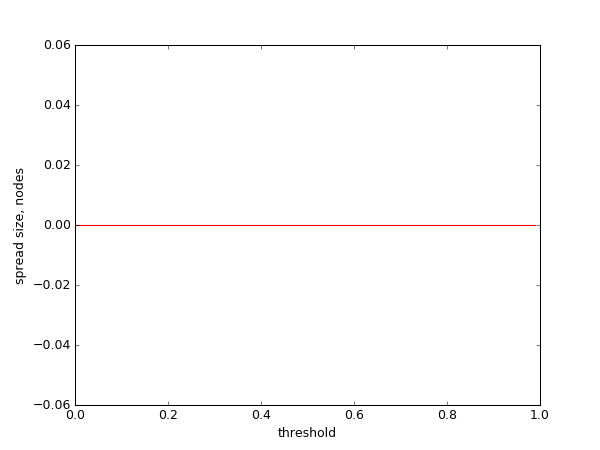
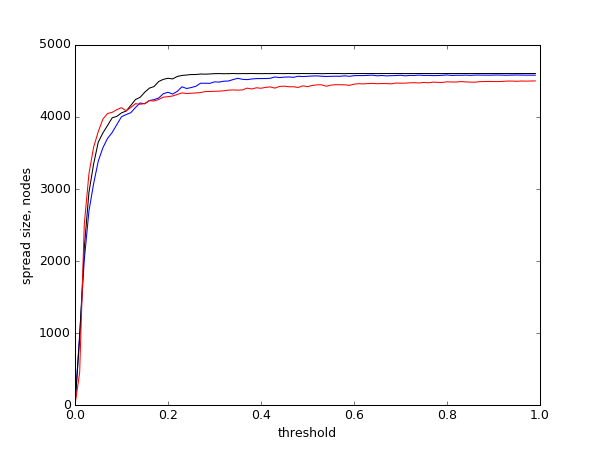
Optimized sis model

diff --git a/sis_model.py b/sis_model.py
@@ -39,49 +39,38 @@ class SISModel(seed.OperaEpidemics):
         self.G = graph
         self.p = p
         self.t = t
-        self.step = 0
 
-        level = self.step % self.t
         self.infected = dict()
-        self.infected[level] = dict()
         for i in xrange(len(seed_nodes)):
-            self.infected[level][seed_nodes[i]] = True
+            self.infected[seed_nodes[i]] = self.t
 
         self.steps_limit = 20
+        self.step = 1
 
     def get_infected(self):
         return self.infected
 
     @timeit
     def spread(self):
-        infected = dict()
         while len(self.infected):
-
-            for level in xrange(len(self.infected.keys()) - 1, -1, -1):
-                for node in self.infected[level]:
-                    neighbors = list(set(self.G.neighbors(node)))
-                    for i in xrange(len(neighbors)):
-                        s = neighbors[i]
-                        if self.check_infected(s):
-                            continue
-                        if self.infect():
-                            infected[s] = True
-                if level + 1 < self.t:
-                    self.infected[level + 1] = self.infected[level]
-                self.infected[level] = infected
-                infected = dict()
-
+            current_step = self.infected.keys()
+            while len(current_step):
+                node = current_step.pop()
+                neighbors = list(set(self.G.neighbors(node)))
+                for i in xrange(len(neighbors)):
+                    s = neighbors[i]
+                    if s in self.infected:
+                        continue
+                    if self.infect():
+                        self.infected[s] = self.t
+                self.infected[node] -= 1
+                if not self.infected[node]:
+                    self.infected.pop(node)
             self.step += 1
-            print(sum(len(self.infected[l]) for l in self.infected))
+            print(len(self.infected))
             if self.step == self.steps_limit:
-                return sum(len(self.infected[l]) for l in self.infected)
+                return len(self.infected)
         return 0
-
-    def check_infected(self, node):
-        for l in self.infected:
-            if node in self.infected[l]:
-                return True
-        return False
 
     def infect(self):
         r = random.uniform(0, 1)
